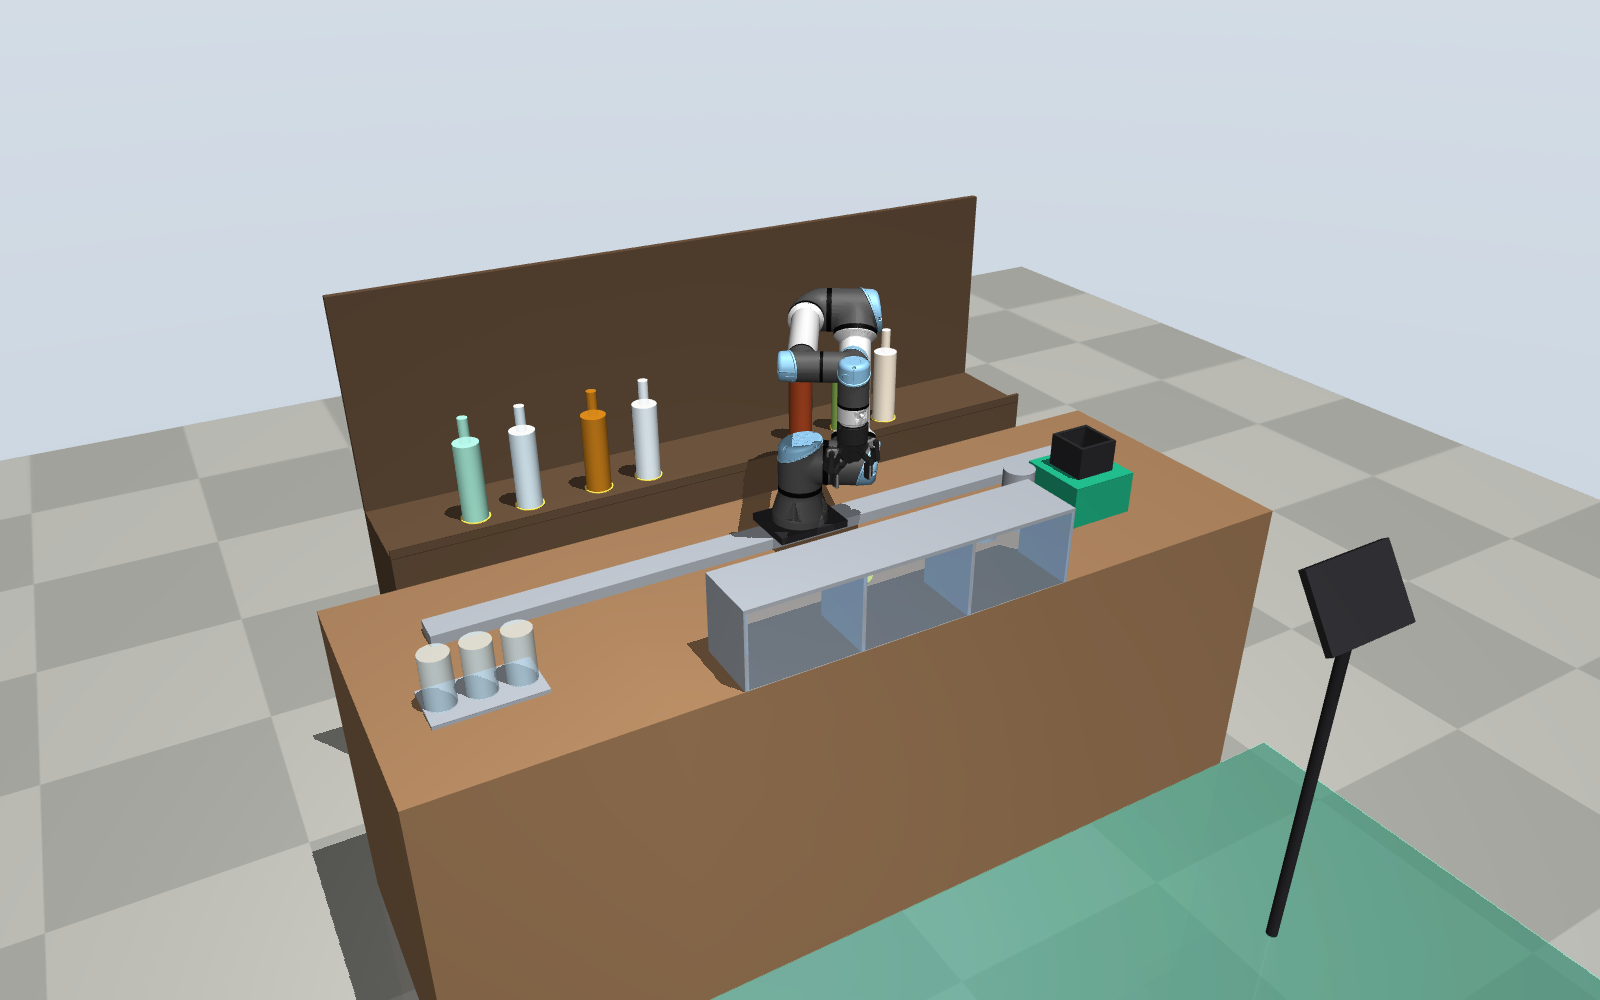
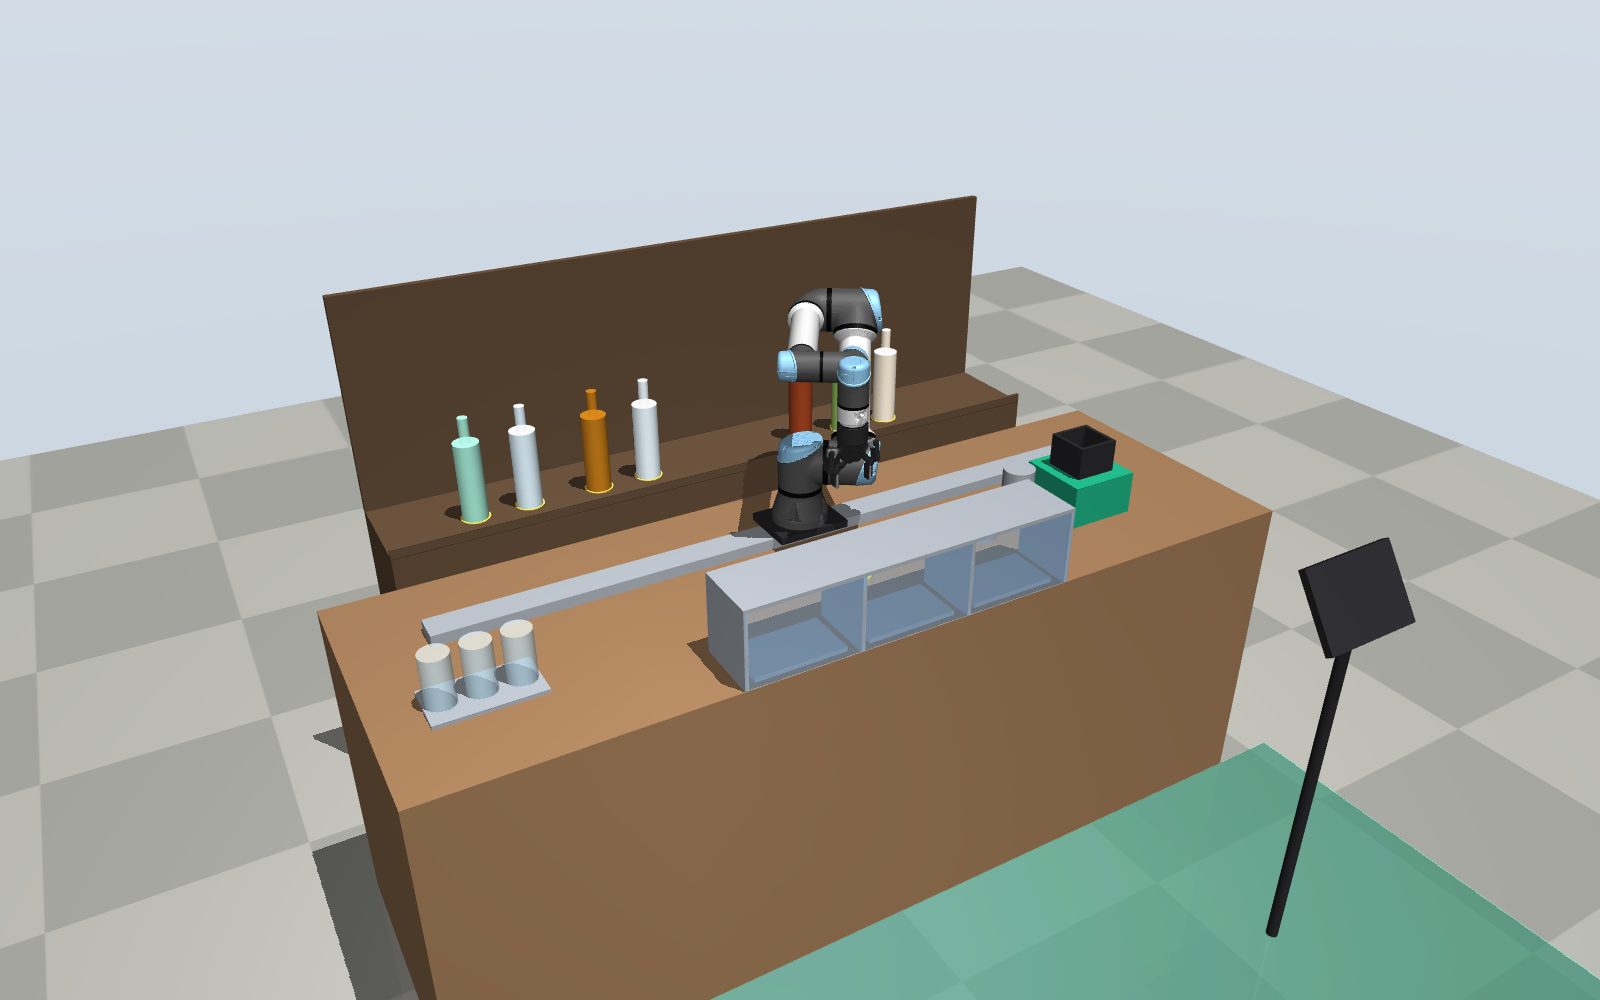
4일차 수정: 붓는 자리·픽업 칸 저울(무게 센서) 추가
- scenes/cocktail_bar.xml: 붓는 자리 저울 1개 + 픽업 칸 저울 3개, touch 센서 4개
- docs/scene.md (D07 v0.2): 저울 구성·읽는 법, 액체 무게 흉내(잔 질량 늘리기), 확인값
- docs/architecture.md (D06·D08 v0.2): 계량을 저울 기반으로, 인터페이스 ⑫⑬ 추가, 안전 개념 3줄 추가
- tests/test_scene.py: 저울 테스트 추가 (전체 15 passed)
- docs/images: 스크린샷 다시 찍음, docs/register.md 버전 갱신

Claude-Session: https://claude.ai/code/session_019dh9hzXBg4dsF6jkXC4UVT

Changed region(s): [[0.4688, 0.558, 0.6562, 0.682]]

diff --git a/tests/test_scene.py b/tests/test_scene.py
@@ -37,6 +37,31 @@ def test_actuators_and_cameras(model):
     assert len([a for a in actuators if a.startswith("arm_")]) == 7  # 팔 6 + 그리퍼 1
     cameras = {model.camera(i).name for i in range(model.ncam)}
     assert {"top_cam", "front_cam"} <= cameras
+    sensors = {model.sensor(i).name for i in range(model.nsensor)}
+    assert sensors == {"scale_pour", "scale_pickup_0", "scale_pickup_1", "scale_pickup_2"}
+
+
+def test_scales_read_cup_and_liquid_weight(model):
+    # 저울: 빈 저울 0, 잔 하나 350g, 잔 질량을 늘리면(액체 흉내) 그만큼 더 읽는다
+    data = mujoco.MjData(model)
+    mujoco.mj_resetDataKeyframe(model, data, model.key("home").id)
+    grams = lambda name: data.sensor(name).data[0] / 9.81 * 1000
+    cup = model.body("cup_1")
+    adr = model.joint(cup.jntadr[0]).qposadr[0]
+    top = model.body("scale_pour").pos[2] + 0.012  # 저울 윗면 z
+    data.qpos[adr:adr + 7] = [0, -0.1, top + 0.066, 1, 0, 0, 0]
+    for _ in range(500):
+        mujoco.mj_step(model, data)
+    assert abs(grams("scale_pour") - 350) < 2
+    assert all(grams(f"scale_pickup_{i}") == 0 for i in range(3))
+    original = model.body_mass[cup.id]
+    try:
+        model.body_mass[cup.id] += 0.045 * 0.94  # 위스키 45ml
+        for _ in range(500):
+            mujoco.mj_step(model, data)
+        assert abs(grams("scale_pour") - (350 + 45 * 0.94)) < 2
+    finally:
+        model.body_mass[cup.id] = original
 
 
 def test_scene_is_stable_from_home(model):

diff --git a/docs/architecture.md b/docs/architecture.md
@@ -1,6 +1,6 @@
 # D06 시스템 구조 · D08 안전 개념 — 칵테일 제조 로봇팔
 
-D06 · D08 · 작성 [조준혁](시뮬레이션) · 검토 [조준혁](개발) · [조준혁](QA) · 상태 작성 · v0.1
+D06 · D08 · 작성 [조준혁](시뮬레이션) · 검토 [조준혁](개발) · [조준혁](QA) · 상태 작성 · v0.2
 
 > 로봇팔 1대(UR5e + 2F-85, 레일 위) 기준이다. 장면은 [D07 장면 구성표](scene.md), 요구사항은 [D03](requirements.md).
 > 숫자는 설명용 가정값이다.
@@ -26,7 +26,9 @@ flowchart LR
     D -- "⑤" --> W
     W -- "⑧" --> C["센서<br/>카메라·접촉·관절"]
     C -- "⑧" --> P
-    C --> Q["계량<br/>기울기·시간 → ml"]
+    W -- "⑫" --> K["저울<br/>붓는 자리·픽업 칸"]
+    K -- "⑫" --> Q["계량<br/>무게 → ml"]
+    K -- "⑬" --> S
     Q -- "⑨" --> S
     S -- "⑩" --> J["판정<br/>judge_episode()"]
     S -- "⑪" --> L["로그<br/>JSON·CSV 한 줄"]
@@ -35,7 +37,7 @@ flowchart LR
 | 고리 | 모듈 | 하는 일 | 파일(예정) |
 |---|---|---|---|
 | 감지 | 센서 · 인식 | 위 카메라(RGB · 깊이)로 병 · 잔 · 셰이커 위치를 찾는다. 손가락 접촉과 관절 위치를 읽는다 | `src/perception.py` |
-| 감지 | 계량 | 병 기울기와 시간으로 부은 양을 계산한다(아래 공식) | `src/pour.py` |
+| 감지 | 저울 · 계량 | 붓는 자리 저울의 무게 변화로 부은 양을 계산한다. 픽업 칸 저울로 잔이 있는지 본다 | `src/pour.py` |
 | 판단 | 주문 입력 | 주문 데이터(레시피 + 맞춤)를 재료별 목표량으로 바꾼다 | `src/order.py` |
 | 판단 | 상태 기계 | 다음에 할 일을 정한다(아래 상태 목록) | `src/state_machine.py` |
 | 행동 | 이동 · 그리퍼 | 손끝 목표를 레일 위치 + 관절 6개 명령으로 바꾼다(역기구학). 그리퍼를 열고 닫는다 | `src/motion.py` |
@@ -60,22 +62,32 @@ flowchart LR
 | ⑨ | 계량 → 상태 기계 | 지금까지 부은 양 | `{"레시피/재료": ml}` | 붓는 동안 매 주기 |
 | ⑩ | 상태 기계 → 판정 | `targets_ml`, `poured_ml`, `dropped`, `elapsed_s` | ml, ml, 개, s | 한 판이 끝날 때 |
 | ⑪ | 모든 모듈 → 로그 | 상태 · 이벤트 / 한 판 결과 | JSON 한 줄(`logs/events.jsonl`) / CSV 한 줄(`logs/results.csv`) | 이벤트마다 / 한 판이 끝날 때 |
+| ⑫ | 붓는 자리 저울 → 계량 | 잔(또는 셰이커 통) 무게 | N → g(÷ 9.81 × 1000) | 매 주기 |
+| ⑬ | 픽업 칸 저울 → 상태 기계 | 칸마다 잔 있음 | `[True/False] × 3`(2N 넘으면 True) | 매 주기 |
 
 **단위를 빼먹지 않기:** 이 프로젝트에는 **ml(밀리리터)** 와 **m(미터)**, **mm** 가 같이 나온다. 그래서 판정 함수 인자처럼 이름 끝에 단위를 붙인다(`targets_ml`, `elapsed_s`). 에이전트가 단위를 틀리면 "표대로 ml로"라고 한 줄로 다시 요청한다.
 
-### 계량 공식(v0 가정)
+### 계량: 저울로 잰다(로봇 쪽)
 
-MuJoCo에는 액체가 없으므로 부은 양을 계산으로 만든다(차터 플랫폼 결정).
+- 붓기 전에 저울 값을 영점으로 잡는다.
+- 부은 양(ml) = 늘어난 무게(g) ÷ 재료 밀도(g/ml)
+- 밀도(가정): 위스키 · 진 · 럼 0.94, 탄산수 · 토닉 1.00, 라임 주스 1.03, 설탕 시럽 1.30
+- 목표량의 90%부터 천천히 붓고, 목표량에 닿으면 병을 세운다. 저울을 보고 멈추니 R-01(±10%)을 직접 지킨다.
+- 셰이크 칵테일은 셰이커 통을 저울에 올려놓고 재료를 붓는다.
+
+### 액체 흉내(시뮬레이션 쪽, v0 가정)
+
+MuJoCo에는 액체가 없으므로(차터 플랫폼 결정) 장면 쪽에서 따라지는 양을 계산한다. 로봇 프로그램은 이 값을 직접 보지 않고 저울만 본다.
 
 - 병 기울기 θ가 45° 이상일 때만 따라진다.
 - 1초에 따라지는 양 = 30ml × (θ − 45°) ÷ 45° (θ = 90°일 때 30ml/s)
-- 부은 양 = 매 주기(0.002s)의 따라지는 양을 더한 값
+- 따라진 양 × 밀도만큼 잔(또는 셰이커 통)의 질량 `model.body_mass`를 늘린다. 병 질량은 그만큼 줄인다.
 
-30ml/s와 45°는 가정값이다. 5일차 테스트 시나리오에서 맞춘다.
+30ml/s, 45°, 밀도는 가정값이다. 5일차 테스트 시나리오에서 맞춘다.
 
 ### 상태 목록
 
-대기 → 주문 받음 → 잔마다 [잔 가져오기 → 재료마다(병 꺼내기 → 붓기 → 병 제자리) → 빌드면 젓기 / 셰이크면(뚜껑 닫기 → 장치에 넣기 → 흔들기 → 꺼내기 → 거름망으로 따르기) → 픽업 칸에 놓기] → 판정 · 로그 → 대기
+대기 → 주문 받음 → 잔마다 [잔 가져와 저울에 올리기 → 재료마다(병 꺼내기 → 저울을 보며 붓기 → 병 제자리) → 빌드면 젓기 / 셰이크면(뚜껑 닫기 → 장치에 넣기 → 흔들기 → 꺼내기 → 거름망으로 따르기) → 빈 픽업 칸(칸 저울로 확인)에 놓기] → 판정 · 로그 → 대기
 
 어느 상태에서든 안전 감지(아래 D08)에 걸리면 **정지** 상태로 간다.
 
@@ -95,5 +107,8 @@ MuJoCo에는 액체가 없으므로 부은 양을 계산으로 만든다(차터 
 | 명령이 끊겨도 계속 움직임 | 0.5초 안에 새 명령 없음(watchdog) | 속도 0, 그리퍼 유지 | — |
 | 사장이 보충 문을 열었는데 움직임 | 보충 문 신호 | 전체 정지 | — |
 | 레일 끝에 부딪힘 | 레일 위치가 ±0.78m를 넘음 | 소프트 한계에서 멈춤 | — |
+| 잔이 넘치도록 부음 | 붓는 자리 저울이 목표량의 110% 또는 잔 용량을 넘음 | 즉시 병을 세움, 그 판은 실패로 기록 | R-01 |
+| 붓는 중 잔이 넘어짐 | 붓는 자리 저울 무게가 갑자기 줄어듦 | 정지, 그 판은 실패로 기록 | R-01 |
+| 잔이 있는 픽업 칸에 또 놓음 | 그 칸 저울이 2N을 넘음 | 빈 칸에 놓고, 다 차 있으면 대기 | R-06 |
 
 **왜 UR5e인가:** UR5e는 힘 센서와 안전 기능을 갖춘 협동로봇이라 사람 가까이에서 일하도록 만든 팔이다. 우리 바는 손님이 바로 앞에서 잔을 받으므로, 협동로봇을 쓰고 동시에 픽업 칸 문으로 손님 손과 팔이 같은 칸에 있지 않게 나눈다.

diff --git a/docs/register.md b/docs/register.md
@@ -9,8 +9,8 @@
 | D03 | 요구사항 명세 | PRD / SRS | 02 | PM | QA | 검토 | v0.3 | docs/requirements.md |
 | D04 | 요구사항 추적표 | Traceability Matrix | 02 | QA | PM | 검토 | v0.2 | docs/traceability.md |
 | D05 | 계획·WBS·위험 목록 | Project Plan / Risk Register | 02 | PM | 팀 전원 | – | – | – |
-| D06 | 시스템 구조 | System Architecture / ICD | 03 | 시뮬레이션 | 개발 | 작성 | v0.1 | docs/architecture.md |
-| D07 | 장면 구성표 | BOM 대응 | 03 | 시뮬레이션 | PM | 작성 | v0.1 | docs/scene.md, scenes/cocktail_bar.xml |
-| D08 | 안전 개념 | Safety Concept | 03 | 시뮬레이션 | QA | 작성 | v0.1 | docs/architecture.md |
+| D06 | 시스템 구조 | System Architecture / ICD | 03 | 시뮬레이션 | 개발 | 작성 | v0.2 | docs/architecture.md |
+| D07 | 장면 구성표 | BOM 대응 | 03 | 시뮬레이션 | PM | 작성 | v0.2 | docs/scene.md, scenes/cocktail_bar.xml |
+| D08 | 안전 개념 | Safety Concept | 03 | 시뮬레이션 | QA | 작성 | v0.2 | docs/architecture.md |
 
 상태: 작성 → 검토 → 승인. 팀 검토가 끝나면 상태를 '승인'으로 바꾼다.
